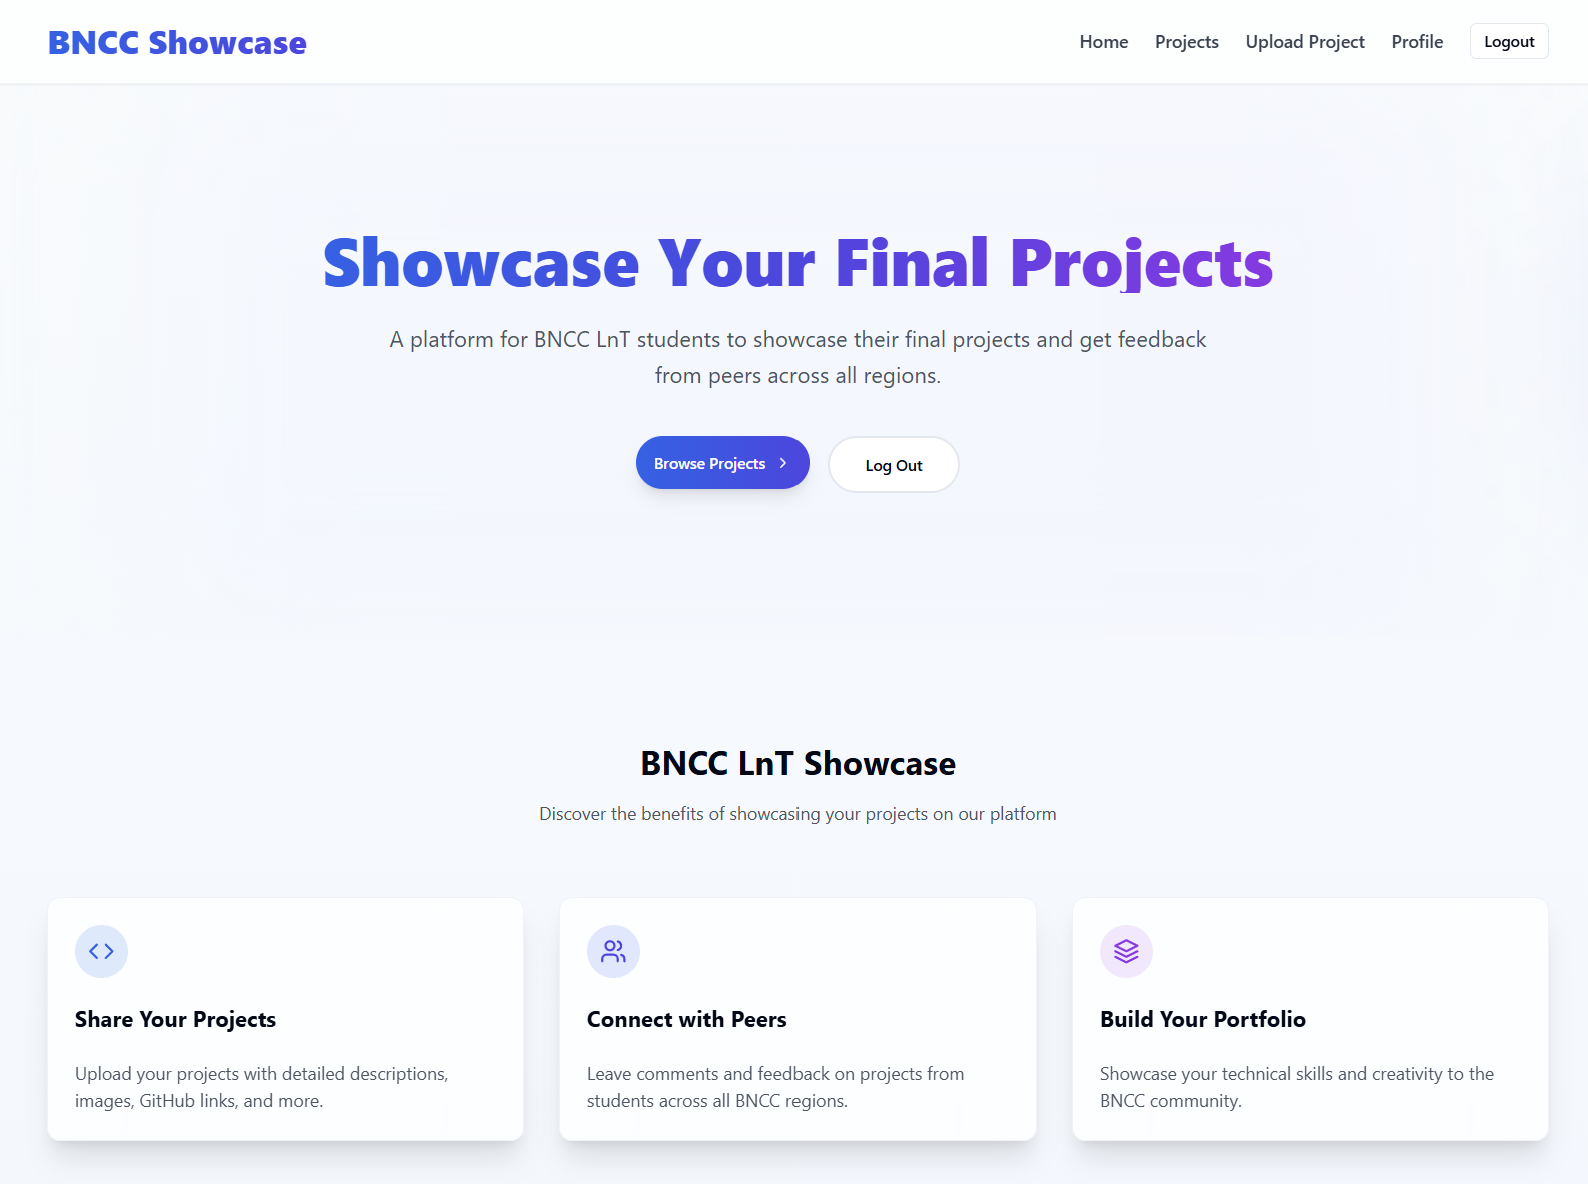
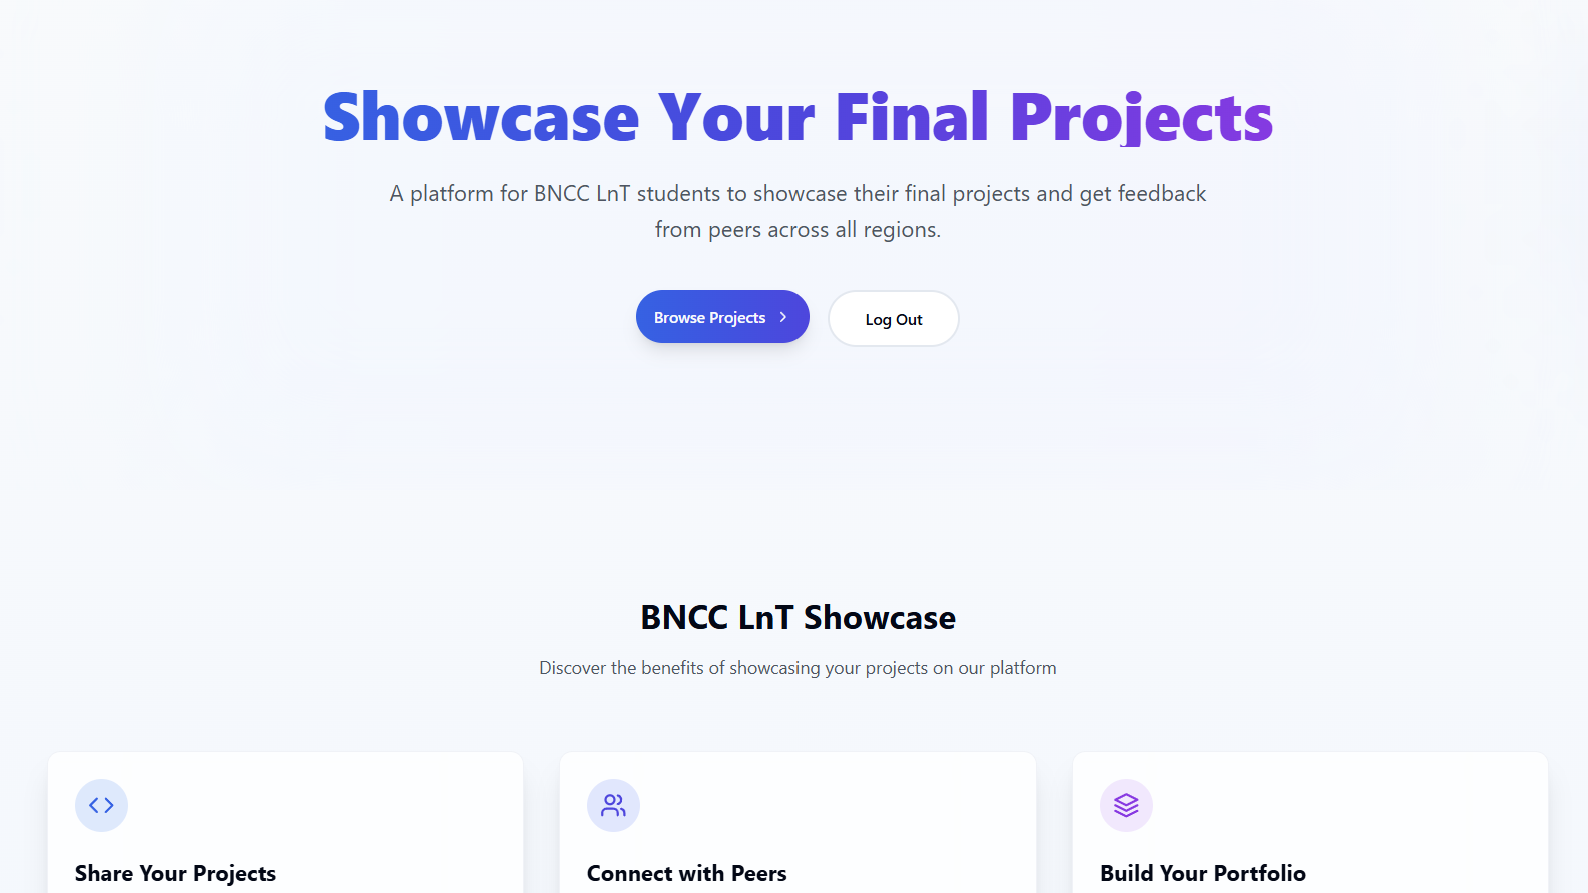
feat: update projects data

diff --git a/src/data.ts b/src/data.ts
@@ -112,63 +112,138 @@ export const TOOLS: Tool[] = [
   { name: "Next.js", icon: "/icons/nextjs.svg" },
   { name: "TypeScript", icon: "/icons/typescript.svg" },
   { name: "Tailwind", icon: "/icons/tailwind.svg" },
-  { name: "Docker", icon: "/icons/docker.svg" },
   { name: "Git", icon: "/icons/git.svg" },
   { name: "Github", icon: "/icons/github.svg" },
   { name: "Node.js", icon: "/icons/node.svg" },
-  { name: "Express", icon: "/icons/express.svg" },
   { name: "Odoo", icon: "/icons/odoo.svg" },
   { name: "Laravel", icon: "/icons/laravel.svg" },
-  { name: "TanStack Query", icon: "/icons/react-query.svg" },
   { name: "Golang", icon: "/icons/golang.svg" },
   { name: "Java", icon: "/icons/java.svg" },
   { name: "Vue", icon: "/icons/vue.svg" },
   { name: "Nuxt", icon: "/icons/nuxt.svg" },
-  { name: "Prisma", icon: "/icons/prisma.svg" },
   { name: "PostgreSQL", icon: "/icons/postgres.svg" },
   { name: "MySQL", icon: "/icons/mysql.svg" },
-  { name: "MongoDB", icon: "/icons/mongo.svg" },
   { name: "Figma", icon: "/icons/figma.svg" },
 ]
 
 export const PROJECTS: Project[] = [
   {
     id: "proj-1",
-    folder: "JavaScript",
-    name: "Random Picker",
-    thumbnail: "/img/proj1.svg",
-    description: "Random Picker web app. Built with native JavaScript and Tailwind CSS. Add multiple names, shuffle, and pick winners with a playful animation.",
-    tech: ["JavaScript", "Tailwind"],
-    repo: "https://github.com/RaihanSnh/random-picker",
-    demo: "https://raihansnh.github.io/random-picker/",
+    folder: "TypeScript",
+    name: "ComicStore",
+    thumbnail: "/project/comicstore.png",
+    description: "Online store for an independent comic, offering both digital and physical editions. Customers can purchase PDF comics, with digital download links automatically sent via email after payment. Physical editions are shipped through an integrated delivery service, while the payment gateway enables instant checkout without manual verification.",
+    tech: ["TypeScript"],
   },
   {
     id: "proj-2",
     folder: "TypeScript",
-    name: "ToDo-List",
-    thumbnail: "/img/proj2.svg",
-    description: "Task manager with categories and filters. Clean TypeScript structure with components and state management.",
-    tech: ["TypeScript", "Tailwind"],
-    repo: "https://github.com/RaihanSnh/ToDo-List",
+    name: "LnT BNCC Showcase Front-End",
+    thumbnail: "/project/lnt-bncc-showcase.png",
+    description: "BNCC LnT Showcase is a responsive project showcase platform built with React, TypeScript, and Tailwind CSS, designed for BNCC LnT students to showcase their final projects, share technical work, and connect with peers across regions.",
+    tech: ["TypeScript"],
+    repo: "https://github.com/RaihanSnh/bncc-lnt-showcase-fe",
   },
   {
     id: "proj-3",
-    folder: "JavaScript",
-    name: "Invisible TicTacToe",
-    thumbnail: "/img/proj3.svg",
-    description: "A twist on TicTacToe, the board fades as you play. Fun logic and DOM updates with classic JS.",
-    tech: ["JavaScript"],
-    repo: "https://github.com/RaihanSnh/Invisible-TicTacToe",
-    demo: "https://raihansnh.github.io/Invisible-TicTacToe/",
+    folder: "TypeScript",
+    name: "Ringkasan Learn",
+    thumbnail: "/project/ringkasan-learn.png",
+    description: "An interactive learning website designed to help students understand Euclids Elements in a more engaging and visual way. It combines clear explanations with interactive demonstrations, step-by-step geometric constructions, and visualizations, making complex mathematical concepts easier to follow and explore.",
+    tech: ["TypeScript"],
   },
   {
     id: "proj-4",
+    folder: "TypeScript",
+    name: "PathSnap",
+    thumbnail: "/project/pathsnap.png",
+    description: "Pathsnap is an interactive travel platform that helps users discover hidden gems, explore local destinations, and create personalized travel routes. It combines destination guides, smart recommendations, and an interactive map to create a more engaging and personalized travel experience.",
+    tech: ["TypeScript"],
+    repo: "https://github.com/RaihanSnh/pathsnap",
+  },
+  {
+    id: "proj-5",
+    folder: "JavaScript",
+    name: "Illuminar Website",
+    thumbnail: "/project/illuminar.png",
+    description: "An immersive promotional website for Illuminar Faire, a Live Action Role-Playing (LARP) event. It combines fantasy inspired visuals, interactive UI, responsive design, animation, and audio to bring the events world to life while showcasing its lore, activities, and upcoming events.",
+    tech: ["JavaScript"],
+    demo: "https://illuminar-website.vercel.app/",
+  },
+  {
+    id: "proj-6",
+    folder: "JavaScript",
+    name: "Invisible Tic Tac Toe",
+    thumbnail: "/project/invisible-tic-tac-toe.png",
+    description: "Invisible Tic Tac Toe is an interactive web based game that puts a unique twist on the classic Tic Tac Toe experience. It features multiple difficulty modes, dynamic game states, and a minimal interface design.",
+    tech: ["JavaScript"],
+    repo: "https://github.com/RaihanSnh/invisible-tictactoe",
+    demo: "https://raihansnh.github.io/Invisible-TicTacToe",
+  },
+  {
+    id: "proj-7",
+    folder: "JavaScript",
+    name: "Kanban To-do",
+    thumbnail: "/project/kanban-todo.png",
+    description: "Kanban Todo App is a lightweight task management web application built with vanilla JavaScript. It provides an interactive Kanban board for organizing tasks across Todo, In Progress, and Done stages, with features for creating, editing, searching, and managing task deadlines.",
+    tech: ["JavaScript"],
+    repo: "https://github.com/RaihanSnh/kanban-todo-vanilla",
+    demo: "https://raihansnh.github.io/kanban-todo-vanilla/",
+  },
+  {
+    id: "proj-8",
+    folder: "JavaScript",
+    name: "AllRandom Picker",
+    thumbnail: "/project/random-picker.png",
+    description: "AllRandom is a web based randomization tool designed to simplify fair group assignments and random selections. It features group randomization, gender-balanced grouping, and randomizer with automatic removal, providing a simple and efficient interface for managing names and creating randomized results.",
+    tech: ["JavaScript"],
+    repo: "https://github.com/RaihanSnh/random-picker",
+    demo: "https://raihansnh.github.io/random-picker/public/index.html",
+  },
+  {
+    id: "proj-9",
+    folder: "JavaScript",
+    name: "Stock Opname Front-End",
+    thumbnail: "/project/stock-opname.png",
+    description: "A responsive inventory management interface built with React. It provides an intuitive dashboard for monitoring products, warehouse data, and stock levels, with features such as search, stock status tracking, and organized inventory views.",
+    tech: ["JavaScript"],
+    repo: "https://github.com/RaihanSnh/stock-opname-fe",
+  },
+  {
+    id: "proj-10",
     folder: "PHP",
-    name: "ujianify",
-    thumbnail: "/img/proj4.svg",
-    description: "Simple exam/quiz functionality. Server-side rendering and basic CRUD powered by PHP.",
+    name: "Metria",
+    thumbnail: "/project/metria.png",
+    description: "Metria is a sustainable fashion social-commerce platform that combines e-commerce with creative self-expression. It features accurate size recommendations, outfit mix-and-match, and a digital wardrobe, while supporting local sellers through a fair order distribution system. Built with Laravel, Metria aims to make fashion shopping more personalized, sustainable, and community-driven.",
+    tech: ["PHP"],
+    repo: "https://github.com/RaihanSnh/metria",
+  },
+  {
+    id: "proj-11",
+    folder: "PHP",
+    name: "Ujianify",
+    thumbnail: "/project/ujianify.png",
+    description: "An online exam platform designed to provide a secure and controlled testing environment for students. The system requires students to keep their camera on and remain in fullscreen mode throughout the exam, while also providing digital attendance through an online signature.",
     tech: ["PHP"],
     repo: "https://github.com/RaihanSnh/ujianify",
+  },
+  {
+    id: "proj-12",
+    folder: "PHP",
+    name: "Stock Opname Back-End",
+    thumbnail: "/project/stock-opname.png",
+    description: "A Laravel based backend system for managing inventory and stock operations. It handles product data, warehouse management, stock availability, authentication, and business logic through a structured API, providing a reliable foundation for the inventory management platform.",
+    tech: ["PHP"],
+    repo: "https://github.com/RaihanSnh/stock-opname-be",
+  },
+  {
+    id: "proj-13",
+    folder: "Go",
+    name: "LnT BNCC Showcase Back-End",
+    thumbnail: "/project/lnt-bncc-showcase.png",
+    description: "Go based REST API that powers the BNCC LnT Showcase platform, handling application logic, data management, routing, and database operations. It uses PostgreSQL with structured migrations and separates the system into handlers, routes, models, and utility layers for maintainability and scalability.",
+    tech: ["Go"],
+    repo: "https://github.com/RaihanSnh/bncc-lnt-showcase-be",
   },
 ]
 

diff --git a/src/components/MusicPlayer.tsx b/src/components/MusicPlayer.tsx
@@ -1,6 +1,6 @@
 import * as React from "react"
 import { SONGS } from "@/data"
-import { Pause, Play, Repeat2, Volume2, VolumeX } from "lucide-react"
+import { Pause, Play, Volume2, VolumeX } from "lucide-react"
 
 const formatTime = (seconds: number) => {
   if (!Number.isFinite(seconds)) return "0:00"
@@ -41,7 +41,6 @@ export function MusicPlayer() {
   const [duration, setDuration] = React.useState(0)
   const [volume, setVolume] = React.useState(0.72)
   const [previousVolume, setPreviousVolume] = React.useState(0.72)
-  const [isRepeat, setIsRepeat] = React.useState(false)
   const audioRef = React.useRef<HTMLAudioElement>(null)
 
   const currentSong = SONGS[currentIndex]
@@ -97,7 +96,7 @@ export function MusicPlayer() {
 
   const handleEnded = () => {
     const audio = audioRef.current
-    if (isRepeat && audio) {
+    if (audio) {
       audio.currentTime = 0
       audio.play().catch(() => setIsPlaying(false))
       return
@@ -138,7 +137,6 @@ export function MusicPlayer() {
           </div>
           <div className="p3-player__controls">
             <button type="button" className="p3-player__play" onClick={() => setIsPlaying((value) => !value)} aria-label={isPlaying ? "Pause" : "Play"}>{isPlaying ? <Pause fill="currentColor" /> : <Play fill="currentColor" />}</button>
-            <button type="button" className={isRepeat ? "is-selected" : ""} onClick={() => setIsRepeat((value) => !value)} aria-label="Repeat track" aria-pressed={isRepeat}><Repeat2 /></button>
           </div>
         </div>
       </div>

diff --git a/src/components/Projects.tsx b/src/components/Projects.tsx
@@ -67,11 +67,6 @@ export function Projects() {
                       <div className="min-w-0 text-left">
                         <div className="flex items-center gap-2">
                           <span className="font-semibold truncate">{p.name}</span>
-                          <div className="flex gap-1">
-                            {p.tech.map((t) => (
-                              <span key={t} className="rounded-full border border-border bg-muted px-2 py-0.5 text-xs">{t}</span>
-                            ))}
-                          </div>
                         </div>
                         <p className="text-left text-sm text-muted-foreground whitespace-pre-line">{p.description}</p>
                         <div className="mt-2 flex gap-3 text-sm">
